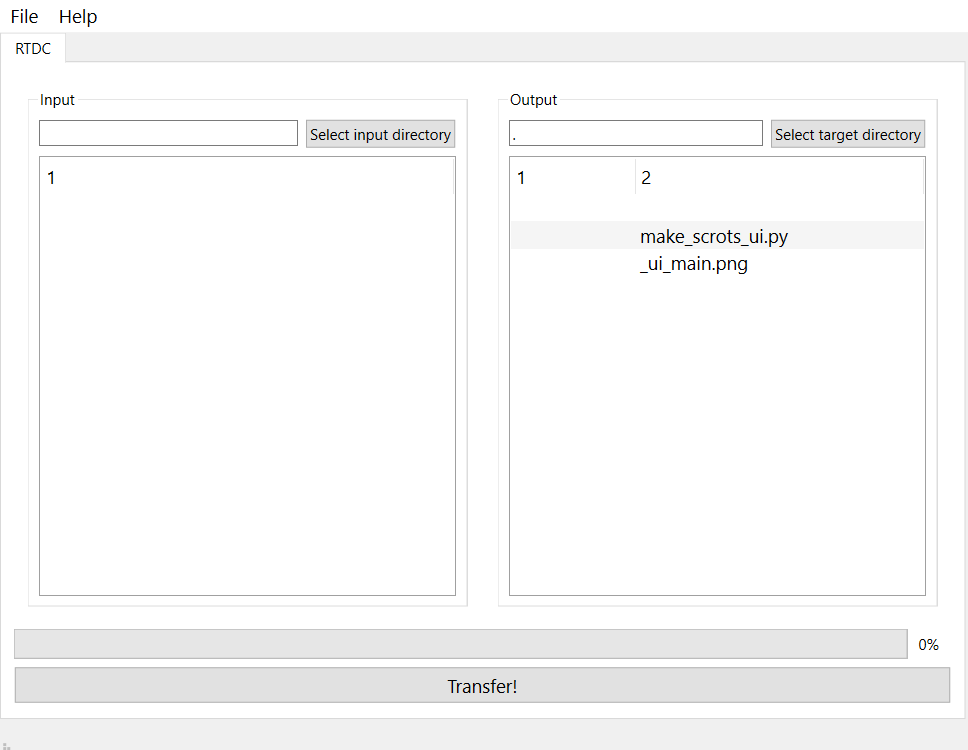
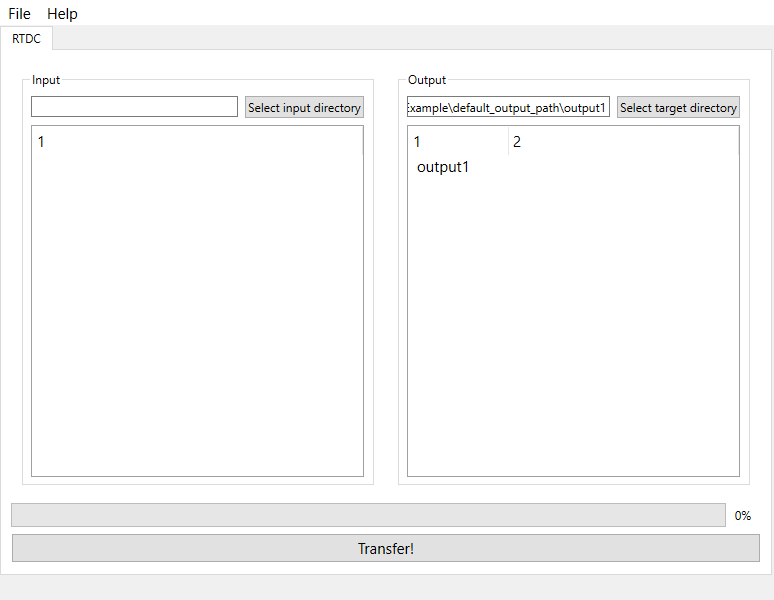
small refactor and updating docs

diff --git a/mpl_data_cast/gui/preferences.py b/mpl_data_cast/gui/preferences.py
@@ -19,7 +19,7 @@ class Preferences(QtWidgets.QDialog):
         self.config_pairs = [
             ["rtdc/output_path", self.rtdc_output_path,
              pathlib.Path.cwd()],
-            ["rtdc/tree_depth_limit", self.tree_depth_limit, 8],
+            ["rtdc/tree_depth_limit", self.tree_depth_limit, 3],
         ]
         self.reload()
 
@@ -71,7 +71,17 @@ class Preferences(QtWidgets.QDialog):
                                     " restored.")
                         msg.setWindowTitle("Warning")
                         msg.exec()
-                        value = prev_value
+                        if pathlib.Path(prev_value).exists():
+                            value = prev_value
+                        else:
+                            msg = QtWidgets.QMessageBox()
+                            msg.setIcon(QtWidgets.QMessageBox.Icon.Warning)
+                            msg.setText("Path from previous settings does not "
+                                        "exist either, original default output"
+                                        " path is restored.")
+                            msg.setWindowTitle("Warning")
+                            msg.exec()
+                            value = pathlib.Path.cwd()
             elif isinstance(widget, QtWidgets.QSpinBox):
                 value = int(widget.value())
             else:

diff --git a/mpl_data_cast/gui/widget_output.py b/mpl_data_cast/gui/widget_output.py
@@ -5,10 +5,6 @@ import pathlib
 from ..path_tree import PathTree, list_items_in_tree
 
 
-class OutputPathError(BaseException):
-    pass
-
-
 class OutputWidget(QtWidgets.QWidget):
     """Widget in the RTDC tab view dealing with the output directory.
     Contains a lineEdit, a button, and a treeview widget."""
@@ -62,7 +58,6 @@ class OutputWidget(QtWidgets.QWidget):
     def update_output_dir(self, output_dir: str | pathlib.Path) -> None:
         """Checks if the output directory as given by the user exists and
         updates the lineEdit widget accordingly.
-        Raises OutputPathError if the directory does not exist.
 
         Parameter
         ---------
@@ -75,9 +70,8 @@ class OutputWidget(QtWidgets.QWidget):
             self.lineEdit_output.setText(str(output_dir))
             self.update_tree()
         else:
-            msg_txt = "The input directory is not valid, it does not seem" \
+            msg_txt = "The output directory is not valid, it does not seem" \
                       " to exist."
-            # raise OutputPathError(msg_txt)
             msg = QtWidgets.QMessageBox()
             msg.setIcon(QtWidgets.QMessageBox.Icon.Warning)
             msg.setText(msg_txt)

diff --git a/mpl_data_cast/gui/widget_input.py b/mpl_data_cast/gui/widget_input.py
@@ -5,10 +5,6 @@ import pathlib
 from ..path_tree import PathTree, list_items_in_tree
 
 
-class InputPathError(BaseException):
-    pass
-
-
 class InputWidget(QtWidgets.QWidget):
     """Widget in the RTDC tab view dealing with the input directory.
     Contains a lineEdit, a button, and a treeview widget."""
@@ -62,7 +58,6 @@ class InputWidget(QtWidgets.QWidget):
     def update_input_dir(self, input_dir: str | pathlib.Path) -> None:
         """Checks if the input directory as given by the user exists and
         updates the lineEdit widget accordingly.
-        Raises InputPathError if the directory does not exist.
 
         Parameter
         ---------
@@ -77,7 +72,6 @@ class InputWidget(QtWidgets.QWidget):
         else:
             msg_txt = "The input directory is not valid, it does not seem" \
                       " to exist."
-            # raise InputPathError(msg)
             msg = QtWidgets.QMessageBox()
             msg.setIcon(QtWidgets.QMessageBox.Icon.Warning)
             msg.setText(msg_txt)

diff --git a/mpl_data_cast/gui/main.py b/mpl_data_cast/gui/main.py
@@ -39,11 +39,11 @@ class MPLDataCast(QtWidgets.QMainWindow):
 
         # load some values from the settings
         self.widget_output.tree_depth_limit = int(self.settings.value(
-            "rtdc/tree_depth_limit", 8))
+            "rtdc/tree_depth_limit", 3))
         self.widget_input.tree_depth_limit = int(self.settings.value(
-            "rtdc/tree_depth_limit", 8))
+            "rtdc/tree_depth_limit", 3))
         self.widget_output.update_output_dir(
-            self.settings.value("rtdc/output_path", ""))
+            self.settings.value("rtdc/output_path", str(pathlib.Path.cwd())))
         # signals
         self.pushButton_transfer.clicked.connect(self.on_task_transfer)
         # GUI

diff --git a/docs/scrots/make_scrots_ui.py b/docs/scrots/make_scrots_ui.py
@@ -1,13 +1,16 @@
 """Screenshots for documentation """
 import sys
-from PyQt6 import QtCore
 from PyQt6.QtWidgets import QApplication
 
 from mpl_data_cast.gui.main import MPLDataCast
+from mpl_data_cast.gui.preferences import Preferences
 
 app = QApplication(sys.argv)
 
 mw = MPLDataCast()
 mw.grab().save("ui_main.png")
+
+prf = Preferences(mw)
+prf.grab().save("ui_preferences.png")
 
 mw.close()

diff --git a/docs/sec_gui.rst b/docs/sec_gui.rst
@@ -6,15 +6,19 @@ Graphical user interface (GUI)
 The GUI is an easy to use way to use MPL-Data-Cast. The main window consists
 of a tab for data of each experiment type, like, e. g. RT-DC.
 
+
+Main window
+-----------
+
 .. image:: scrots/ui_main.png
     :target: _images/ui_main.png
-    :align: right
-    :scale: 70%
+    :align: center
+    :scale: 66%
 
-On the left, you can specifiy the input directory, either by drag-and-drop of
-a folder or by using the "Select input directory" button.
+On the left, you can specifiy the input directory, either by dragging-and-dropping
+a folder or by using the button "Select input directory".
 You can also drag-and-drop a file, in that case, the parent directory of that
-file will be used internally. On the right, the output directory is shown, it
+file will be used. On the right, the output directory is shown, it
 can be changed in the same way as the input directory.
 
 For convenience, the default output directory can be changed in the settings.
@@ -22,8 +26,27 @@ For convenience, the default output directory can be changed in the settings.
 The two big white areas will show the contents of input and output directory
 respectively. Since large directories with many subdirectories can cause
 performance issues, one can change the maximum depth of directories that should
-be displayed here. The minimum is 2 and the maximum is 24.
+be displayed here. The minimum is 1 and the maximum is 24.
 
 The button at the bottom of the window starts the transfer of data using
 the RT-DC recipe. The progress bar indicates the current status of the file
 transfer and is updated after each file that was processed.
+
+Preferences
+-----------
+
+.. image:: scrots/ui_preferences.png
+    :target: _images/ui_main.png
+    :align: center
+    :scale: 70%
+
+In the top, there is current default output directory shown. It can be changed
+via the button "Select directory".
+
+Below that, the maximum depth of subdirectories that will be shown in the
+main window can be set. The minimum is 1, so that at least the direct contents
+of input and output directories are shown. The maximum is 24.
+
+.. warning::
+    Using a large depth limit for displaying sub-directories can cause performance
+    issues, especially if the directories contain a lot of files.

diff --git a/docs/sec_intro.rst b/docs/sec_intro.rst
@@ -18,6 +18,11 @@ is currently under development. An initial GUI to use MPL-Data-Cast for
 transfering RT-DC data is already available. If you encounter bugs or have
 suggestions for improvement, open an issue on
 `GitHub <https://github.com/GuckLab/MPL-Data-Cast/issues>`_.
+To start the GUI, run
+
+```
+python -m mpl_data_cast
+```
 
 
 Motivation
@@ -75,10 +80,10 @@ See also:
 Good to know
 ------------
 
-- MPL-Data-Cast does not create a folder with the same name as the input
-directory in the output directory, it copies the content of the input directory
-into the output directory. That means that you have to be careful when entering
-the output path, or otherwise you might end up mixing up data.
+- MPL-Data-Cast does not create a directory with the same name as the input
+  directory in the output directory, it copies the content of the input
+  directory into the output directory. That means that you have to be careful when
+  entering the output path, or otherwise you might end up mixing up data.
 
-- Right now it is not possible to copy only selected datasets/files from a given
-directory, you can only copy and transfer complete directories.
+- Right now, it is not possible to copy only selected files or subfolders from
+  a given directory, you can only transfer complete directories.
